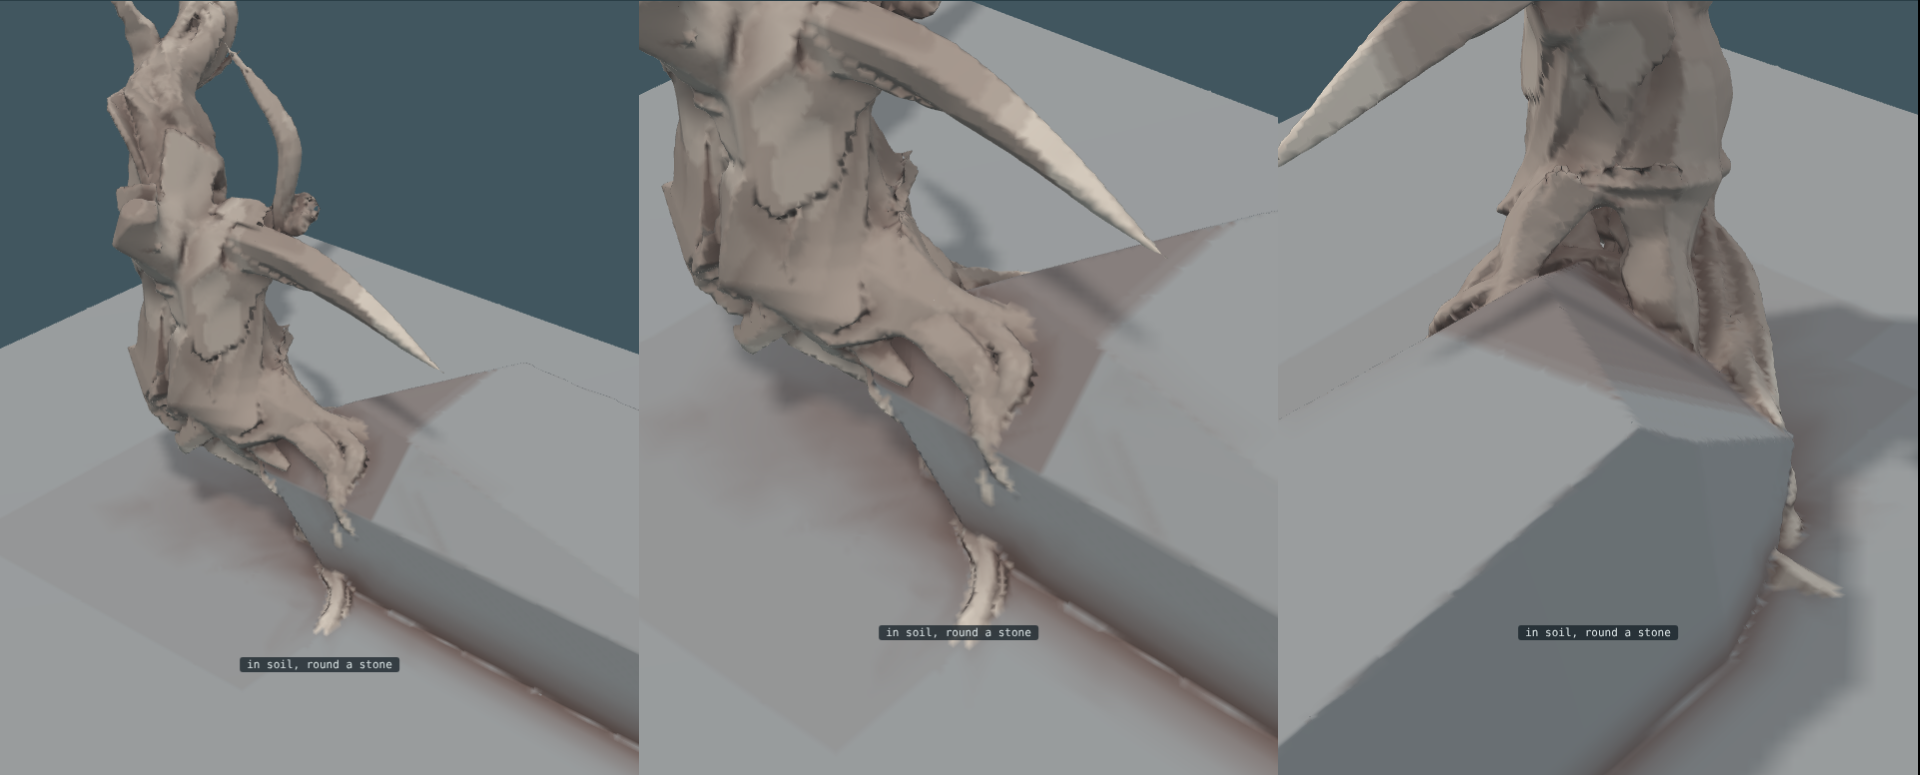
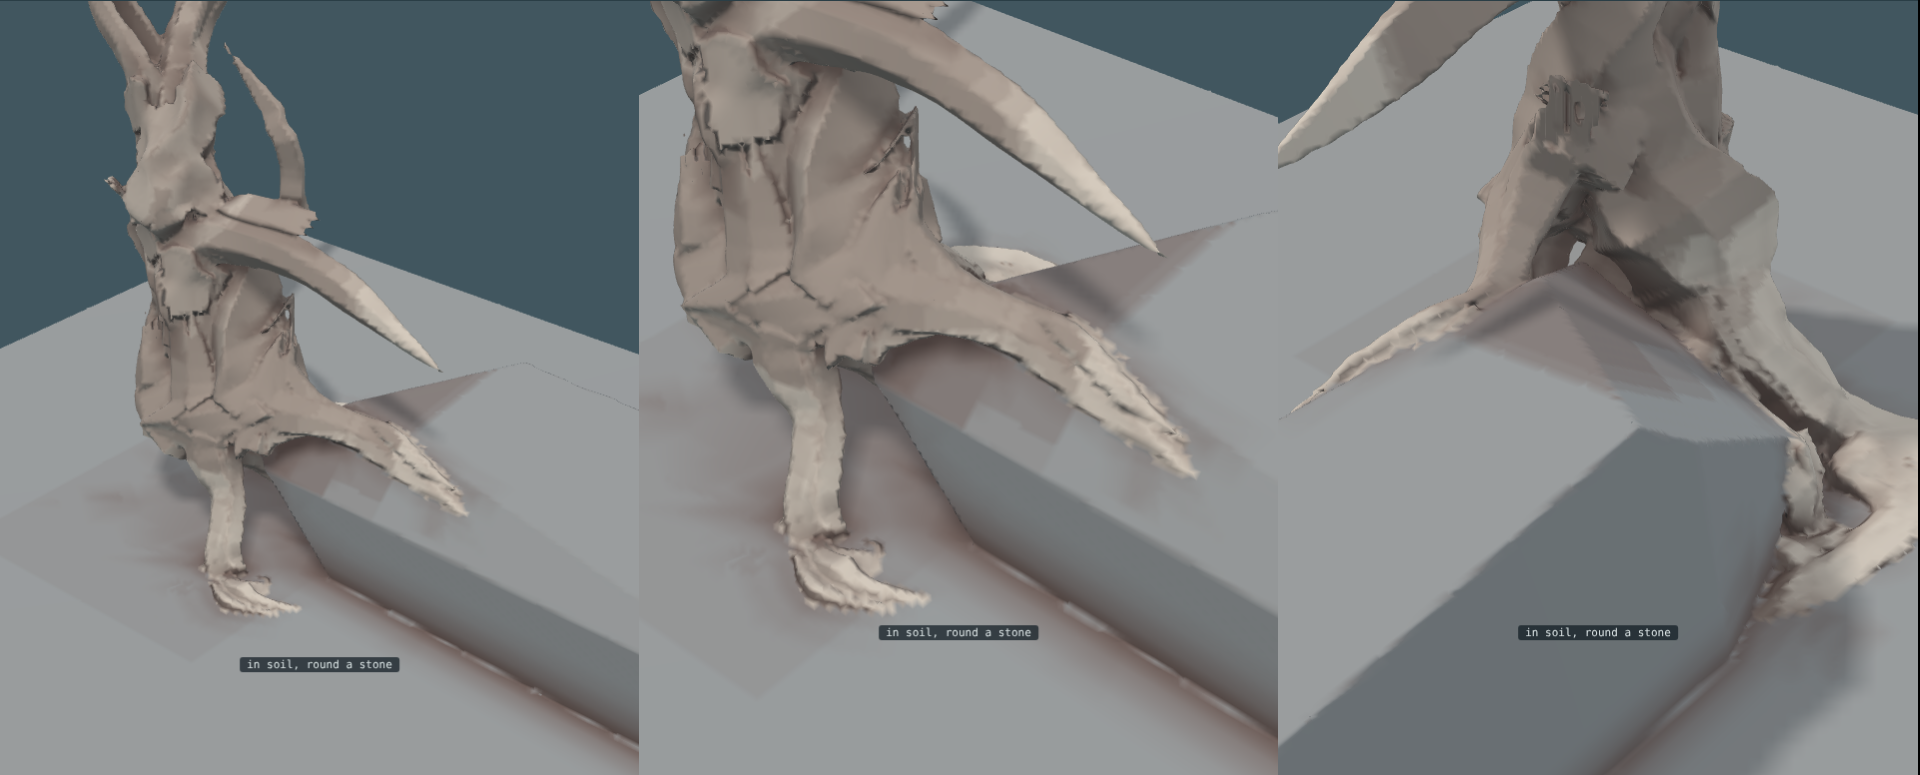
Retract the plate flag and fix what it missed: divisions kept out of the collar, so few roots leave the foot instead of a fringe of wires
Claude-Session: https://claude.ai/code/session_0192rgp75jGkttZXf7hEakip

diff --git a/runs/023-plate/plate.js b/runs/023-plate/plate.js
@@ -1,40 +1,43 @@
-// The root plate, counted. There is a failure that keeps coming back: the foot floods with wood and the tree
-// stands on a mass instead of on roots -- a cancerous growth blasting from the bottom. It is hard to see in a
-// still, because a dense foot and a strong foot look much alike from most angles, and it has got past me more
-// than once. So it is counted here rather than looked at.
+// The root plate, counted. There is a failure that keeps coming back: the foot floods and the tree stands in a
+// fringe of wires instead of on roots -- "a cancerous growth blasting from the bottom". It is hard to see in a
+// still, and it has got past me more than once.
 //
 //   node runs/023-plate/plate.js [page] [overrides]
-//     node runs/023-plate/plate.js                          sketch/page11.js as it stands
+//     node runs/023-plate/plate.js                                   sketch/page11.js as it stands
 //     node runs/023-plate/plate.js sketch/page9.js
-//     node runs/023-plate/plate.js sketch/page11.js '{"grip":1}'    to see the fault on purpose
+//     node runs/023-plate/plate.js sketch/page11.js '{"clearFoot":0}'   to see the fault on purpose
 //
-// What is counted is how much of the space at the foot is wood: a ball about the foot, of a radius a little over
-// two trunks, sampled. Roots that leave the foot and go somewhere fill a modest share of it. A mass fills a lot.
-// The second ball, at twice the radius, says whether what is there is a plate that spreads or a lump that does
-// not: a plate keeps some fill out there, a lump falls away to nothing.
+// TWO numbers, and the first of them is the one that matters. I got this wrong the first time and it is worth
+// saying how: I assumed the fault was wood -- too much of it, a mass -- and measured how much of a ball at the
+// foot is solid. That number was calibrated against a tree with twice the root girth, passed the trees that
+// actually had the fault, and I reported it as a clean bill. The fault is not wood. It is COUNT: a dozen and
+// more roots leaving the foot, which must all share one trunk's worth of section, so every one of them is a
+// wire. A fringe of wires round a swollen trunk is what reads as a tumour. Volume cannot see it, because
+// fourteen wires and six roots weigh the same.
 //
-// Calibrated against the fault made on purpose, on page 11's seven sites:
+//   leaving     how many separate roots cross a ring at 1.4 trunk radii, and how many of those are under
+//               three tenths of the trunk's radius. A tree leaves its foot on five to eight, and they are not
+//               all wires.
+//   fill        how much of a ball at the foot is wood. Kept as a second opinion: it catches the other fault,
+//               a foot gone solid, which is real but is not this one.
 //
-//        as it stands                       foot 0.13 to 0.21
-//        more roots      (feet 14)          foot 0.17 to 0.21   -- no worse, which is right
-//        more dividing   (forks 3)          foot 0.19 to 0.20   -- no worse, which is right
-//        roots twice as thick (grip 1.0)    foot 0.27 to 0.33   -- the fault
+// Calibrated on page 11's seven sites, with the dividing let back into the collar (`clearFoot: 0`), which is
+// how the fault was made:
 //
-// So the number answers to wood and not to how many roots there are, which is the distinction that matters:
-// a foot may have as many roots as it likes, and may not be made of wood.
+//        as it stands              leaving  4 to 7    fill 0.17 to 0.23
+//        clearFoot 0 (the fault)   leaving 10 to 19   fill 0.16 to 0.21   -- the fill does not move at all
+//        grip 1.0 (a solid foot)   leaving  4 to 7    fill 0.27 to 0.33   -- the other fault, caught by fill
 //
-// It is a flag, not a budget. Nothing is clamped and nothing fails. Run it before believing a picture.
-const vm = require('vm'), fs = require('fs'), path = require('path'), R = path.join(__dirname, '../../');
+// Flags, not budgets. Nothing is clamped. Run it before believing a picture.
+const vm = require('vm'), fs = require('fs'), path = require('path'), R = path.join(__dirname, '../../'), H = Math.hypot;
 const page = process.argv[2] || 'sketch/page11.js', over = process.argv[3];
-const loud = 0.25;
+const manyLeaving = 8, fullFoot = 0.25;
 const g = { console: { log: () => {} }, Math, Float64Array, Float32Array, Uint8Array, Int32Array, Map, Set, URLSearchParams, JSON, Object, Array, Number, location: { search: '?x=1' } };
 g.window = g; g.globalThis = g; vm.createContext(g);
 for (const f of ['cheats/fantastic.js', 'sketch/page5.js', 'trees.js', 'sketch/page7.js']) vm.runInContext(fs.readFileSync(R + f, 'utf8'), g, { filename: f });
 let src = fs.readFileSync(R + page, 'utf8');
 if (over) src = src.replace(/const \{ tree \} = Trees7,/, 'const tree = (rec) => Trees7.tree(Object.assign({}, rec, ' + over + ')),');
 vm.runInContext(src, g, { filename: page });
-const names = g.Fantastic.names, fields = g.Fantastic.fields;
-// a scatter of its own, so the number does not move when nothing else has
 let seed = 12345;
 const rnd = () => { seed = (seed * 1103515245 + 12345) & 0x7fffffff; return seed / 0x7fffffff; };
 const fill = (f, cx, cy, cz, rad, n) => { let hit = 0;
@@ -43,15 +46,21 @@ const fill = (f, cx, cy, cz, rad, n) => { let hit = 0;
     const px = cx + x * rad, py = cy + y * rad, pz = cz + z * rad;
     if (f(px, py, pz) < 0 && f.layerAt(px, py, pz) !== 5) hit++; }
   return hit / n; };
-console.log(page + (over ? '  with ' + over : '') + '   wood in a ball at the foot (flag over ' + loud + ')');
+const leaving = (rec, ring) => { const t = g.Trees.grow(Object.assign({}, rec, { passes: 0 })), foot = rec.trunk[0], R0 = foot[3];
+  let n = 0, thin = 0;
+  t.strands.forEach((s) => { if (!(s.root > 5) || s.loop) return;
+    for (let k = 0; k < Math.min(s.root, s.K - 1); k++) {
+      const r0 = H(s.X[k * 3] - foot[0], s.X[k * 3 + 2] - foot[2]), r1 = H(s.X[k * 3 + 3] - foot[0], s.X[k * 3 + 5] - foot[2]);
+      if ((r0 - ring) * (r1 - ring) <= 0) { n++; if (s.rho[k] < 0.3 * R0) thin++; break; } } });
+  return [n, thin]; };
+console.log(page + (over ? '  with ' + over : '') + '   roots leaving the foot (flag over ' + manyLeaving + '), wood in a ball at the foot (flag over ' + fullFoot + ')');
 let flags = 0;
-fields.forEach((f, i) => {
-  const rec = f.recipe || {}, trunk = (rec.trunk || [[0, 0.14, 0, 0.2]])[0], R0 = trunk[3], rad = 2.2 * R0;
-  const foot = fill(f, trunk[0], trunk[1] + 0.35 * rad, trunk[2], rad, 12000);
-  const wide = fill(f, trunk[0], trunk[1] + 0.35 * rad, trunk[2], rad * 2, 12000);
-  const bad = foot > loud; if (bad) flags++;
-  console.log((bad ? ' FLAG ' : '      ') + (names[i] || ('tree ' + i)).padEnd(32) +
-    ' foot ' + foot.toFixed(3) + '   twice as wide ' + wide.toFixed(3) + '   spread ' + (wide / (foot || 1e-9)).toFixed(2));
+g.Fantastic.fields.forEach((f, i) => {
+  const rec = f.recipe, trunk = rec.trunk[0], R0 = trunk[3], rad = 2.2 * R0;
+  const [n, thin] = leaving(rec, 1.4 * R0);
+  const got = fill(f, trunk[0], trunk[1] + 0.35 * rad, trunk[2], rad, 12000);
+  const bad = n > manyLeaving || got > fullFoot; if (bad) flags++;
+  console.log((bad ? ' FLAG ' : '      ') + (g.Fantastic.names[i] || ('tree ' + i)).padEnd(32) +
+    ' leaving ' + String(n).padStart(2) + ' (' + thin + ' of them wires)   fill ' + got.toFixed(3));
 });
-console.log(flags ? '  ' + flags + ' over ' + loud + ': the foot is a mass. Look at it before believing anything else about the tree.'
-  : '  none over ' + loud);
+console.log(flags ? '  ' + flags + ' flagged: look at the foot before believing anything else about the tree.' : '  none flagged');

diff --git a/trees.js b/trees.js
@@ -30,7 +30,7 @@
   function frames(P) { let N = null; return P.map((p, i) => { const T = unit([0, 1, 2].map((k) => P[Math.min(P.length - 1, i + 1)][k] - P[Math.max(0, i - 1)][k])); N = unit((N || [1, 0, 0.2]).map((v, k, A) => v - T[k] * dot(A, T))); return [T, N, cross(T, N)]; }); }
 
   function grow(recipe) {
-    const P = Object.assign({ strands: 8, fill: 0.75, uneven: 0.5, twist: 0.5, taut: 0.3, stiff: 0.05, hug: 0.15, bind: 0.004, roots: 0.6, wind: 1.1, mixed: false, lmax: 0, set: 0, swell: 1, feet: 0, lap: 0, ground: null, down: 0.6, crease: 3.2, seam: 0.55, seams: 7, hem: 2.2, leg: 0.16, knuckle: 0.55, knee: 0.3, sinew: 0.17, apart: 1, bury: 0, forgive: 0.22, rank: 2.6, slack: 0.11, press: 1.3, forkBy: 0.42, weave: 1, kink: 1.1, swallow: 0.95, bridge: 2.2, toe: 0.13, tip: 0.26, snake: 1, air: 0.18, reach: 0.6, eyes: 0.4, hang: 0.3, bold: 0.35, brace: 0.12, bite: 1.8, forks: 1, dive: 0.12, slant: 0.75, clumps: 3, cling: 0.88, grip: 0.5, collar: 2, flare: 0.07, waste: 0.25, clear: 1, settle: 0, giving: 0.75, passes: 1500, ds: 0.035, seed: 1, trunk: [[0, 0.14, 0, 0.27], [0, 1.6, 0, 0.1]], limbs: [], orb: null }, recipe);
+    const P = Object.assign({ strands: 8, fill: 0.75, uneven: 0.5, twist: 0.5, taut: 0.3, stiff: 0.05, hug: 0.15, bind: 0.004, roots: 0.6, wind: 1.1, mixed: false, lmax: 0, set: 0, swell: 1, feet: 0, lap: 0, ground: null, down: 0.6, crease: 3.2, seam: 0.55, seams: 7, hem: 2.2, leg: 0.16, knuckle: 0.55, knee: 0.3, sinew: 0.17, apart: 1, bury: 0, forgive: 0.22, rank: 2.6, slack: 0.11, press: 1.3, forkBy: 0.42, clearFoot: 2.1, weave: 1, kink: 1.1, swallow: 0.95, bridge: 2.2, toe: 0.13, tip: 0.26, snake: 1, air: 0.18, reach: 0.6, eyes: 0.4, hang: 0.3, bold: 0.35, brace: 0.12, bite: 1.8, forks: 1, dive: 0.12, slant: 0.75, clumps: 3, cling: 0.88, grip: 0.6, collar: 2, flare: 0.07, waste: 0.25, clear: 1, settle: 0, giving: 0.75, passes: 1500, ds: 0.035, seed: 1, trunk: [[0, 0.14, 0, 0.27], [0, 1.6, 0, 0.1]], limbs: [], orb: null }, recipe);
     // The ground, if the tree is given one: any function of a place that is how far it is outside the ground (less than
     // nothing inside). Without one the ground is the level at height 0, as it always was. (A grown tree is always given one, level if nothing else, so that its roots are walked.)
     const G = P.ground, softAt = G && G.soft && P.bury ? G.soft : null, gradG = G ? (x, y, z) => { const e = 0.008; return unit([G(x + e, y, z) - G(x - e, y, z), G(x, y + e, z) - G(x, y - e, z), G(x, y, z + e) - G(x, y, z - e)]); } : null, rootPts = [];
@@ -351,7 +351,9 @@
     // many fine ones, each traceable back to a heavy one: the way the tree divides above the ground, upside down.
     if (G && P.forks) { const part = (pi, depth) => { const par = S[pi], n = depth > 1 ? (r() < 0.3 * P.forks ? 1 : 0) : depth ? 1 + (r() < 0.45 * P.forks ? 1 : 0) : 1 + (r() < 0.8 * P.forks ? 1 : 0) + (r() < 0.5 * P.forks ? 1 : 0); let u = 0.06 + 0.14 * r() * r();
         for (let e = 0; e < n; e++, u += 0.055 + 0.1 * r()) { if (u > P.forkBy) break; const k = Math.round((1 - u) * par.root); if (k < 4 || k > par.root - 2) continue;
-          const pos = [par.X[k * 3], par.X[k * 3 + 1], par.X[k * 3 + 2]]; { const kb = Math.max(0, k - 3), db = [0, 1, 2].map((c) => par.X[k * 3 + c] - par.X[kb * 3 + c]), dl = H(db[0], db[1], db[2]) || 1e-9;
+          const pos = [par.X[k * 3], par.X[k * 3 + 1], par.X[k * 3 + 2]];
+          if (H(pos[0] - trunk[0][0], pos[2] - trunk[0][2]) < P.clearFoot * P.trunk[0][3]) continue;
+          { const kb = Math.max(0, k - 3), db = [0, 1, 2].map((c) => par.X[k * 3 + c] - par.X[kb * 3 + c]), dl = H(db[0], db[1], db[2]) || 1e-9;
             if (-db[1] / dl > 0.5 || G(pos[0], pos[1], pos[2]) > 12 * par.rho[k]) continue; }   // not while it is still coming down, nor out on a leap: either way a tree perched high would stand on a palisade of straws
           const d = unit([par.X[(k - 2) * 3] - pos[0], par.X[(k - 2) * 3 + 1] - pos[1], par.X[(k - 2) * 3 + 2] - pos[2]]), nn = gradG(pos[0], pos[1], pos[2]), sd = cross(nn, d), a = (r() < 0.5 ? -1 : 1) * (0.4 + 0.4 * r());
           const dir = unit(d.map((v, c) => v * Math.cos(a) + sd[c] * Math.sin(a))), share = (0.34 + 0.24 * r()) * (1 - 0.6 * Math.min(1, u / P.forkBy)), rb = par.rho[k] * Math.sqrt(share);

diff --git a/LOG.md b/LOG.md
@@ -4322,3 +4322,50 @@ Wrong, or not there:
   reads lower than one whose roots lie on it, for no reason that has
   anything to do with the fault.
 - It is run by hand. Nothing stops a picture being taken without it.
+
+## Retracted: the plate flag was counting the wrong thing
+
+The entry above is wrong and the round it reports did not fix anything.
+"So you fixed nothing, this is still the freakish growth tumor roots."
+
+I had assumed the fault was **wood** -- a foot flooded, a mass -- and built
+a measure of how much of a ball at the foot is solid. It was calibrated
+against a tree with its root girth doubled, which it caught; it passed the
+trees that actually had the fault; and I reported a clean bill while the
+fault was in the picture I sent with it. Worse, in calibrating it I wrote
+down that more roots (`feet 14`) left the number unmoved and called that
+the right sensitivity. More roots *is* the fault. I had the measure certify
+the thing it was built to catch.
+
+What the fault actually is, cut open and counted: **thirteen to nineteen
+roots were leaving the foot, and every one of them was a wire.** They share
+one trunk's worth of section between them, so the more of them there are
+the thinner each must be. A fringe of wires round a swollen trunk is what
+reads as a tumour. Volume cannot see it, because fourteen wires and six
+roots weigh the same.
+
+And the cause was mine, from two rounds ago. Crowding the divisions toward
+the foot -- right as a share of a root's length -- put them inside the
+first two trunk-widths, so each primary root sprouted two or three more
+before it had got clear of the collar. The foot is left clear now
+(`clearFoot`, 2.1 trunk radii): what leaves the foot is few, and the
+dividing starts out beyond it.
+
+      roots leaving the foot   13 to 19  ->  4 to 7
+      roots crossing a ring, at most   0.48 of the trunk's section
+      (`grip` 0.5 -> 0.6: with six roots instead of sixteen, each can carry more)
+
+`runs/023-plate/plate.js` counts both now -- how many leave, and the fill
+-- and says in its own comments which fault each number sees and that the
+first one was got wrong. The fill is kept because the solid-foot fault is
+real; it is just not this one.
+
+The lesson is sharper than "a picture beats a number", which I had already
+written down twice. It is: **a measure built from a guess about the cause
+will certify the fault.** I guessed wood, calibrated against wood, and got
+a green light. What found it was cutting the foot open, failing to see it
+there either, and then going back to the picture the complaint was about
+and counting what was actually in it.
+
+      page 9's lines, from here   3124a3e482 a6955d0811 8edf224e71 95442327a8 adbe75f371
+      page 7's four, unchanged    e387ada36c 17dc01b122 a61f129179 b2eac9db5f
